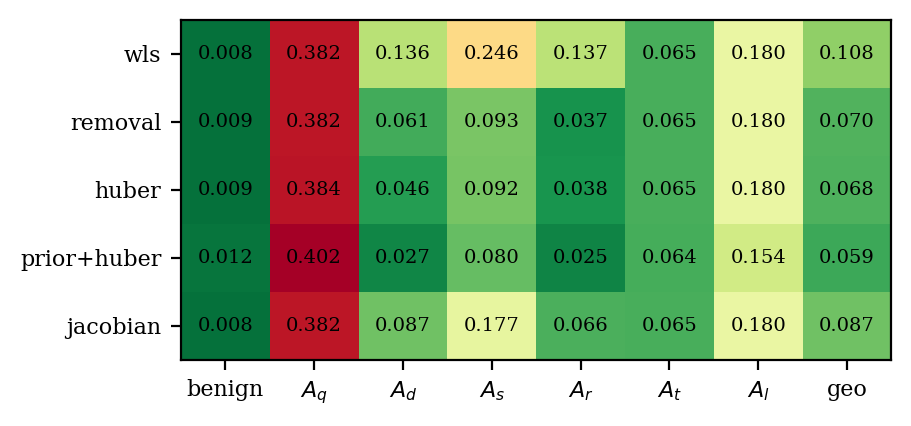
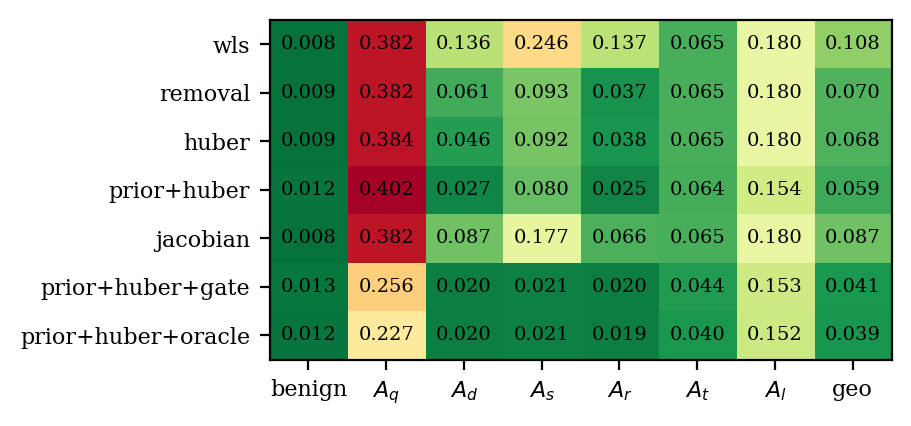
SE docs: IEEE-300 column
Every estimator arm except residual removal on the 300-bus test partition,
in the paper's table layout, plus the 300 numbers for the Jacobian
weighting and localization-gated sections and the per-family heatmap.
The 14 and 118 heatmaps gain the two gated rows.

diff --git a/docs/se/README.md b/docs/se/README.md
@@ -35,70 +35,74 @@ rep  = est.score(test)      # per-family angle/voltage MAE vs the clean truth
 
 ## Results
 
-Test partition, validation-selected hyperparameters from the estimation paper (Huber `c` 1.5 / 2.5,
-rank fraction 0.20 / 0.50, removal threshold 4.0 / 5.0 on IEEE 14 / 118). Each cell is the mean
-absolute error aggregated over the seven record classes as a geometric mean. Full metrics in
-`results/se_ieee{14,118}.json`. IEEE 300 follows once its run finishes (the robust arms take hours
-per system on 300; each estimator's estimates are cached as it completes).
+Test partition, validation-selected hyperparameters from the estimation paper (Huber `c` 1.5 / 2.5 /
+6.0, rank fraction 0.20 / 0.50 / 0.50, removal threshold 4.0 / 5.0 on IEEE 14 / 118 / 300). Each cell
+is the mean absolute error aggregated over the seven record classes as a geometric mean. Full metrics
+in `results/se_ieee{14,118,300}.json`. Residual removal is not run on IEEE 300: its per-record
+observability guard takes many hours at that size, and the estimation paper found no removal
+threshold that helped on 300.
 
 **Estimator comparison**
 
-| Estimator | IEEE 14 | IEEE 118 |
-|---|---:|---:|
-| *Angle MAE (deg)* | | |
-| WLS baseline | 0.108 | 0.054 |
-| Residual removal | 0.070 | 0.037 |
-| Adaptive weighting | 0.068 | 0.036 |
-| **Prior + Huber (proposed)** | **0.059** | **0.030** |
-| Jacobian weighting | 0.087 | 0.040 |
-| **Prior + Huber + CNN gate** | **0.041** | **0.028** |
-| Prior + Huber + oracle gate (ceiling) | 0.039 | 0.028 |
-| WLS error reduction (proposed) | 45% | 45% |
-| WLS error reduction (gated) | 62% | 48% |
+| Estimator | IEEE 14 | IEEE 118 | IEEE 300 |
+|---|---:|---:|---:|
+| *Angle MAE (deg)* | | | |
+| WLS baseline | 0.108 | 0.054 | 0.097 |
+| Residual removal | 0.070 | 0.037 | not run |
+| Adaptive weighting | 0.068 | 0.036 | 0.068 |
+| **Prior + Huber (proposed)** | **0.059** | **0.030** | **0.058** |
+| Jacobian weighting | 0.087 | 0.040 | 0.074 |
+| **Prior + Huber + CNN gate** | **0.041** | **0.028** | **0.055** |
+| Prior + Huber + oracle gate (ceiling) | 0.039 | 0.027 | 0.054 |
+| WLS error reduction (proposed) | 45% | 45% | 40% |
+| WLS error reduction (gated) | 62% | 48% | 43% |
 
-| Estimator | IEEE 14 | IEEE 118 |
-|---|---:|---:|
-| *Voltage MAE (10^-3 pu)* | | |
-| WLS baseline | 0.606 | 0.165 |
-| Residual removal | 0.427 | 0.113 |
-| Adaptive weighting | 0.380 | 0.111 |
-| **Prior + Huber (proposed)** | **0.147** | **0.028** |
-| Jacobian weighting | 0.494 | 0.125 |
-| **Prior + Huber + CNN gate** | **0.161** | **0.029** |
-| Prior + Huber + oracle gate (ceiling) | 0.158 | 0.027 |
-| WLS error reduction (proposed) | 76% | 83% |
+| Estimator | IEEE 14 | IEEE 118 | IEEE 300 |
+|---|---:|---:|---:|
+| *Voltage MAE (10^-3 pu)* | | | |
+| WLS baseline | 0.606 | 0.165 | 0.321 |
+| Residual removal | 0.427 | 0.113 | not run |
+| Adaptive weighting | 0.380 | 0.111 | 0.250 |
+| **Prior + Huber (proposed)** | **0.147** | **0.028** | **0.114** |
+| Jacobian weighting | 0.494 | 0.125 | 0.261 |
+| **Prior + Huber + CNN gate** | **0.161** | **0.029** | **0.106** |
+| Prior + Huber + oracle gate (ceiling) | 0.158 | 0.027 | 0.105 |
+| WLS error reduction (proposed) | 76% | 83% | 64% |
 
-The estimation paper reports, on v0.4.1 data, angle 0.164 → 0.068 (14) and 0.075 → 0.033 (118) from
-WLS to the proposed estimator, and voltage reductions of 57% and 85%. The v0.7.2 shards carry the
-accuracy-class meter model, so absolute errors are lower, and the ordering and the reductions hold.
+The estimation paper reports, on v0.4.1 data, angle 0.164 → 0.068 (14), 0.075 → 0.033 (118) and
+0.129 → 0.068 (300) from WLS to the proposed estimator, and voltage reductions of 57%, 85% and 68%.
+The v0.7.2 shards carry the accuracy-class meter model, so absolute errors are lower, and the
+ordering and the reductions hold on all three systems.
 
 **Per-family results of the proposed estimator.** Baseline cells are the WLS error, reduction is
 the proposed estimator's percent reduction over that baseline.
 
-| Family | Base angle (deg) 14 | Base angle (deg) 118 | Base volt (10^-3) 14 | Base volt (10^-3) 118 | Angle red. (%) 14 | Angle red. (%) 118 | Volt red. (%) 14 | Volt red. (%) 118 |
-|---|---:|---:|---:|---:|---:|---:|---:|---:|
-| Benign | 0.008 | 0.009 | 0.15 | 0.09 | -45 | 25 | 58 | 80 |
-| Bias (Ad) | 0.136 | 0.028 | 3.90 | 0.55 | 80 | 66 | 97 | 95 |
-| Scaling (As) | 0.246 | 0.031 | 1.17 | 0.33 | 67 | 66 | 85 | 91 |
-| Replay (Ar) | 0.137 | 0.043 | 1.12 | 0.17 | 82 | 82 | 93 | 88 |
-| Stealthy re-solve (Aq) | 0.382 | 0.168 | 0.62 | 0.10 | -5 | 0 | 30 | 63 |
-| Slow ramp (At) | 0.065 | 0.034 | 0.19 | 0.09 | 1 | 4 | 48 | 79 |
-| Load redistribution (Al) | 0.180 | 0.766 | 0.34 | 0.14 | 15 | 0 | 4 | 39 |
+| Family | Base angle (deg) 14 | Base angle (deg) 118 | Base angle (deg) 300 | Base volt (10^-3) 14 | Base volt (10^-3) 118 | Base volt (10^-3) 300 | Angle red. (%) 14 | Angle red. (%) 118 | Angle red. (%) 300 | Volt red. (%) 14 | Volt red. (%) 118 | Volt red. (%) 300 |
+|---|---:|---:|---:|---:|---:|---:|---:|---:|---:|---:|---:|---:|
+| Benign | 0.008 | 0.009 | 0.015 | 0.15 | 0.09 | 0.15 | -45 | 25 | 23 | 58 | 80 | 68 |
+| Bias (Ad) | 0.136 | 0.028 | 0.025 | 3.90 | 0.55 | 0.33 | 80 | 66 | 41 | 97 | 95 | 81 |
+| Scaling (As) | 0.246 | 0.031 | 0.025 | 1.17 | 0.33 | 0.26 | 67 | 66 | 39 | 85 | 91 | 73 |
+| Replay (Ar) | 0.137 | 0.043 | 0.132 | 1.12 | 0.17 | 0.45 | 82 | 82 | 89 | 93 | 88 | 86 |
+| Stealthy re-solve (Aq) | 0.382 | 0.168 | 0.392 | 0.62 | 0.10 | 0.34 | -5 | 0 | 0 | 30 | 63 | 23 |
+| Slow ramp (At) | 0.065 | 0.034 | 0.070 | 0.19 | 0.09 | 0.17 | 1 | 4 | 2 | 48 | 79 | 56 |
+| Load redistribution (Al) | 0.180 | 0.766 | 2.277 | 0.34 | 0.14 | 1.01 | 15 | 0 | 0 | 4 | 39 | 6 |
 
 Angle MAE per estimator and family (degrees, lower is better, `geo` is the summary column):
 
-| IEEE 14 | IEEE 118 |
-|---|---|
-| ![](results/fig_se_ieee14.png) | ![](results/fig_se_ieee118.png) |
+| IEEE 14 | IEEE 118 | IEEE 300 |
+|---|---|---|
+| ![](results/fig_se_ieee14.png) | ![](results/fig_se_ieee118.png) | ![](results/fig_se_ieee300.png) |
 
 Two readings:
 
 1. **Robustness cleans up what it can see.** `Ad`/`As`/`Ar` corrupt meters in place and leave large
    residuals. Removal and Huber each cut their angle error, and the prior on top takes 66 to 82
-   percent off the baseline angle error and 85 to 97 percent off the voltage error, on both systems.
+   percent off the baseline angle error on 14 and 118 (39 to 89 percent on 300, where the in-place
+   families start closer to the noise floor) and 73 to 97 percent off the voltage error everywhere.
 2. **The stealthy families barely move.** `Aq`/`At`/`Al` re-solve the physics, so there is nothing
    for a robust weight or a residual test to reject. Angle reduction sits between -5 and 15 percent
-   on 14 and at 0 to 4 percent on 118 for every method. Recovering the truth under a stealthy attack
+   on 14, 0 to 4 percent on 118 and 0 to 2 percent on 300 for every method. Recovering the truth
+   under a stealthy attack
    needs temporal information, not better weighting. The detection side of that story is in
    [`../localization/README.md`](../localization/README.md).
 
@@ -106,10 +110,11 @@ Two readings:
 
 `JacobianWeighting` applies the digest's idea to estimation: the part of the measurement change
 since the previous clean state that no state change can explain, `r⊥ = (I − P_H)Δz`, sets Huber
-weights before a single solve. It cuts WLS angle error by 19% on 14 and 26% on 118, entirely on the
-in-place corruption families (`Ad` 0.136 → 0.087, `As` 0.246 → 0.177, `Ar` 0.137 → 0.066 on 14), and
-leaves the stealthy families untouched, exactly as `(I − P_H)a = 0` predicts. It does not reach the
-iterated Huber arm (0.068 on 14), and composing the two (Jacobian weights first, Huber passes on
+weights before a single solve. It cuts WLS angle error by 19% on 14, 26% on 118 and 23% on 300,
+entirely on the in-place corruption families (`Ad` 0.136 → 0.087, `As` 0.246 → 0.177, `Ar` 0.137 →
+0.066 on 14; `Ar` 0.132 → 0.032 on 300), and leaves the stealthy families untouched, exactly as
+`(I − P_H)a = 0` predicts. It does not reach the iterated Huber arm (0.068 on 14 and on 300), and
+composing the two (Jacobian weights first, Huber passes on
 top) lands on Huber's number (0.067). The temporal unexplained residual carries the information
 Huber already recovers from the estimate's own residual, so this route cannot move the proposed
 estimator; the route that can is gating it with a localizer (`GatedPrior`), since localization sees
@@ -122,18 +127,19 @@ on a flagged bus and every flow on a branch incident to it is down-weighted by 1
 prior supplies the state there. The CNN gate is the papers' localizer trained on the same train split
 (all families); the oracle gate uses the true labels and is the ceiling for any gate.
 
-| | IEEE 14 | | | IEEE 118 | | |
-|---|---:|---:|---:|---:|---:|---:|
-| angle MAE (deg) | proposed | + CNN gate | + oracle | proposed | + CNN gate | + oracle |
-| Aq stealthy re-solve | 0.402 | 0.256 | 0.227 | 0.168 | 0.168 | 0.168 |
-| Ad / As / Ar in-place | 0.027 / 0.080 / 0.025 | 0.020 / 0.021 / 0.020 | 0.020 / 0.021 / 0.019 | 0.009 / 0.011 / 0.008 | 0.008 / 0.008 / 0.008 | 0.008 / 0.007 / 0.007 |
-| At slow ramp | 0.064 | 0.044 | 0.040 | 0.032 | 0.033 | 0.033 |
-| Al redistribution | 0.154 | 0.153 | 0.152 | 0.764 | 0.766 | 0.765 |
-| geometric mean | 0.059 | **0.041** | 0.039 | 0.030 | **0.028** | 0.028 |
+| | IEEE 14 | | | IEEE 118 | | | IEEE 300 | | |
+|---|---:|---:|---:|---:|---:|---:|---:|---:|---:|
+| angle MAE (deg) | proposed | + CNN gate | + oracle | proposed | + CNN gate | + oracle | proposed | + CNN gate | + oracle |
+| Aq stealthy re-solve | 0.402 | 0.256 | 0.227 | 0.168 | 0.168 | 0.168 | 0.391 | 0.391 | 0.391 |
+| Ad / As / Ar in-place | 0.027 / 0.080 / 0.025 | 0.020 / 0.021 / 0.020 | 0.020 / 0.021 / 0.019 | 0.009 / 0.011 / 0.008 | 0.008 / 0.008 / 0.008 | 0.008 / 0.007 / 0.007 | 0.015 / 0.015 / 0.014 | 0.013 / 0.012 / 0.013 | 0.012 / 0.012 / 0.012 |
+| At slow ramp | 0.064 | 0.044 | 0.040 | 0.032 | 0.033 | 0.033 | 0.068 | 0.068 | 0.068 |
+| Al redistribution | 0.154 | 0.153 | 0.152 | 0.764 | 0.766 | 0.765 | 2.276 | 2.277 | 2.277 |
+| geometric mean | 0.059 | **0.041** | 0.039 | 0.030 | **0.028** | 0.028 | 0.058 | **0.055** | 0.054 |
 
 Reading: on IEEE 14 the predicted gate takes 31 percent off the proposed estimator and lands within 4
-percent of the oracle, and it is the first thing that moves the stealthy `Aq` family. On IEEE 118 the
-gain shrinks to 5 percent and `Aq` does not move even with the oracle gate. Removing a few buses'
+percent of the oracle, and it is the first thing that moves the stealthy `Aq` family. On IEEE 118 and
+300 the gain shrinks to 5 percent, all of it on the in-place families, and `Aq`, `At` and `Al` do not
+move even with the oracle gate. Removing a few buses'
 meters on a small grid removes most of the evidence of the re-solved state and the prior pulls the
 estimate back toward typical operation; on a large grid the attack's footprint spreads over many
 unflagged branches and the remaining measurements still describe the attacked physics. Gating helps
@@ -151,5 +157,8 @@ FG_SYSTEM=ieee300 python docs/se/run_se.py
 python docs/se/make_report.py                  # tables (markdown) + figures + CSV from the JSON
 ```
 
-Wall time with the GPU to itself: minutes on IEEE-14; on IEEE-118 WLS 1 min, removal 1.1 h, Huber
-5.6 h, prior + Huber 1.9 h. Re-runs score from `results/cache/` in about a minute per arm.
+`FG_SKIP=removal,...` leaves arms out of a run; the IEEE-300 column was made with `FG_SKIP=removal`.
+Wall time on the CPU with 0.14.1's batched solver: minutes on IEEE-14; on IEEE-300 WLS 1 min, Huber
+2.1 h, prior + Huber 47 min, Jacobian weighting 5 min, each gated arm 48 min (the IEEE-118 arms were
+run before the 0.14.1 speedups and took 1 to 6 h each). Re-runs score from `results/cache/` in about
+a minute per arm.
